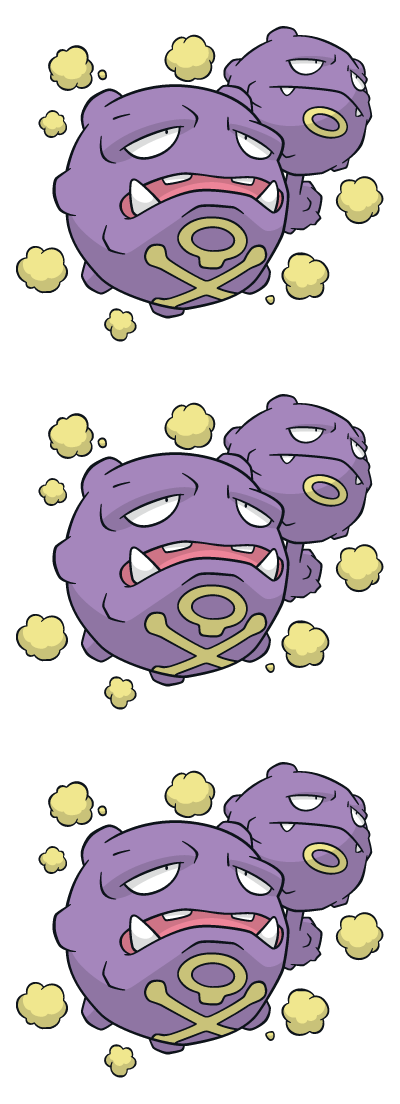
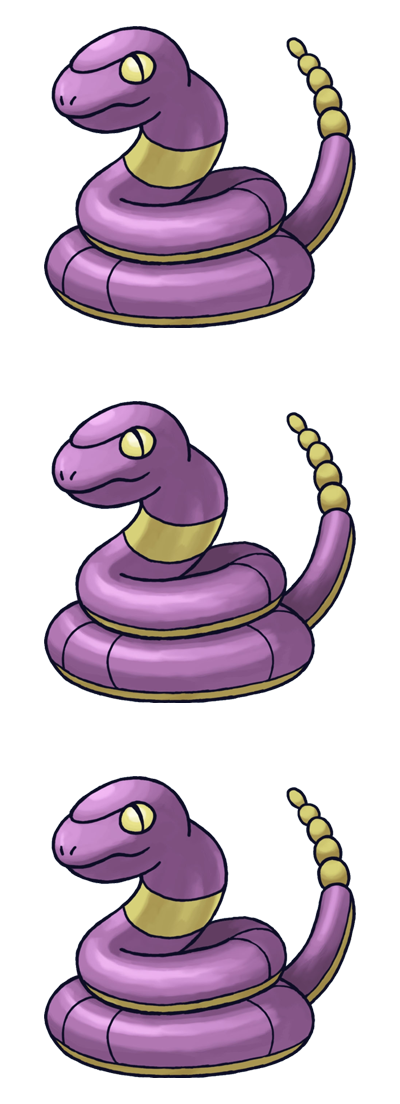
Better Layout + new IMG

diff --git a/src/RushHour/RushHourSolverInteractive.java b/src/RushHour/RushHourSolverInteractive.java
@@ -90,10 +90,10 @@ public class RushHourSolverInteractive extends JFrame{
 	}
 	
 	public void afficherMenuRushHourSelect()
-	{
+	{	
 		this.getContentPane().removeAll();
 		JPanel pan = new JPanel();
-	    pan.setLayout(new GridLayout(3,1));
+	    pan.setLayout(new GridLayout(2,1));
 	    pan.add(this.loadFile());
 	    
 	    this.grille = new JPanel();
@@ -101,11 +101,13 @@ public class RushHourSolverInteractive extends JFrame{
 	    this.drawGrille();
 	    
 	    pan.add(grille);
-	    pan.add(this.createButtonLoad());
+	    //pan.add(this.createButtonLoad());
 	    
-	    this.setContentPane(pan);  
+	    this.getContentPane().add(pan, BorderLayout.CENTER);
+	    this.getContentPane().add(this.createButtonLoad(), BorderLayout.SOUTH);
 	    this.setJMenuBar(null);
 	    this.revalidate();
+	    this.repaint();
 	}
 	
 	public void nextConfiguration()
@@ -233,8 +235,9 @@ public class RushHourSolverInteractive extends JFrame{
 	            r = new RushHour("./puzzles/"+difficulty+"/"+name);      	
 	            drawGrille();
 	            getContentPane().remove(loadRushHour);
-	            getContentPane().add(createButtonLoad());
+	            getContentPane().add(createButtonLoad(),BorderLayout.SOUTH);
 	            revalidate();
+	            repaint();
 	        }
 	    });
 		
@@ -257,7 +260,7 @@ public class RushHourSolverInteractive extends JFrame{
 		//JPanel pan = new JPanel();
 		//this.grille = new JPanel();
 		this.grille.removeAll();
-		this.grille.setLayout(new GridLayout(1, 2));
+		this.grille.setLayout(new BorderLayout());
 
 	    
 	    JPanel grille = new JPanel();
@@ -289,47 +292,45 @@ public class RushHourSolverInteractive extends JFrame{
 	    
 	    HashMap<String,Byte> partsOfImg = new HashMap<>();
 	    
-		for(int i=0;i<RushHour.TAILLE_MATRICE;i++)
-		{			
-			if(grilleStr[i].equals("0"))
+	    int ligneActuel=0;
+	    
+		for(int iTotal=0;iTotal<RushHour.TAILLE_MATRICE+RushHour.DIMENSION_MATRICE;iTotal++)
+		{	
+			if((iTotal+1)%(this.r.getNbColonne()+1)==0 && iTotal!=0)
 			{
-				grille.add(new EmptyCaseRepresentation());
+				if(ligneActuel==2)
+					grille.add(new CaseExitRepresentation(this.r.getNbLigne(),this.r.getNbColonne(),this.theme));
+				else
+					grille.add(new JPanel());
+				ligneActuel++;
 			}
 			else
 			{
-				if(partsOfImg.containsKey(grilleStr[i]))
-					partsOfImg.put(grilleStr[i], (byte) (partsOfImg.get(grilleStr[i])+1));
-				else
-					partsOfImg.put(grilleStr[i], (byte) 0);
+			
+				int i= iTotal-ligneActuel;
 				
-				if(grilleStr[i].charAt(0)=='t')
-					grille.add(new CaseCamionRepresentation(this.r.getNbLigne(),this.r.getNbColonne(),map.get(grilleStr[i]),partsOfImg.get(grilleStr[i]),this.theme));
-				else if(grilleStr[i].charAt(0)=='c')
-					grille.add(new CaseVoitureRepresentation(this.r.getNbLigne(),this.r.getNbColonne(),map.get(grilleStr[i]),partsOfImg.get(grilleStr[i]),this.theme));
+				if(grilleStr[i].equals("0"))
+				{
+					grille.add(new EmptyCaseRepresentation());
+				}
 				else
-					grille.add(new CaseVoitureGRepresentation(this.r.getNbLigne(),this.r.getNbColonne(),partsOfImg.get(grilleStr[i]),this.theme));
+				{
+					if(partsOfImg.containsKey(grilleStr[i]))
+						partsOfImg.put(grilleStr[i], (byte) (partsOfImg.get(grilleStr[i])+1));
+					else
+						partsOfImg.put(grilleStr[i], (byte) 0);
+					
+					if(grilleStr[i].charAt(0)=='t')
+						grille.add(new CaseCamionRepresentation(this.r.getNbLigne(),this.r.getNbColonne(),map.get(grilleStr[i]),partsOfImg.get(grilleStr[i]),this.theme));
+					else if(grilleStr[i].charAt(0)=='c')
+						grille.add(new CaseVoitureRepresentation(this.r.getNbLigne(),this.r.getNbColonne(),map.get(grilleStr[i]),partsOfImg.get(grilleStr[i]),this.theme));
+					else
+						grille.add(new CaseVoitureGRepresentation(this.r.getNbLigne(),this.r.getNbColonne(),partsOfImg.get(grilleStr[i]),this.theme));
+				}
 			}
 		}
 		
-		this.grille.add(grille);
-		
-		JPanel grilleSortie = new JPanel();
-		grilleSortie.setLayout(new GridLayout(this.r.getNbLigne(), this.r.getNbColonne()));
-		
-		for(int i=0;i<RushHour.TAILLE_MATRICE;i++)
-		{			
-			if(i==(int)(RushHour.CASE_SORTIE)+2-RushHour.DIMENSION_MATRICE)
-			{
-				JPanel caseExit = new CaseExitRepresentation(this.r.getNbLigne(),this.r.getNbColonne(),this.theme);
-				grilleSortie.add(caseExit);
-			}
-				
-			else
-				//grilleSortie.add(new CaseRepresentation(r.getNbLigne(),r.getNbColonne(),null));
-				grilleSortie.add(new JPanel());
-		}
-		
-		this.grille.add(grilleSortie);
+		this.grille.add(grille,BorderLayout.CENTER);
 		
 		//this.getContentPane().remove(this.grille);
 		//this.grille = pan;
@@ -376,7 +377,7 @@ public class RushHourSolverInteractive extends JFrame{
 		this.getContentPane().setLayout(new BorderLayout());
 		
 		JLabel methodePanel = new JLabel(this.methode,JLabel.CENTER);
-		methodePanel.setFont(new Font("Verdana", Font.BOLD, 14));
+		methodePanel.setFont(new Font("Verdana", Font.BOLD, 28));
 		this.getContentPane().add(methodePanel,BorderLayout.NORTH);
 		JPanel center = new JPanel();
 		center.setLayout(new BorderLayout());
